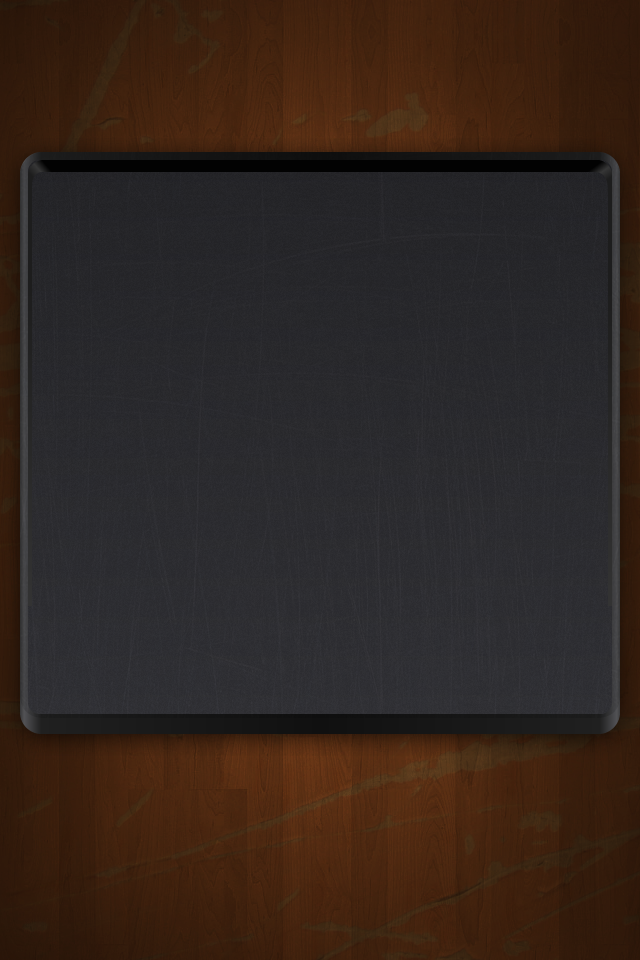
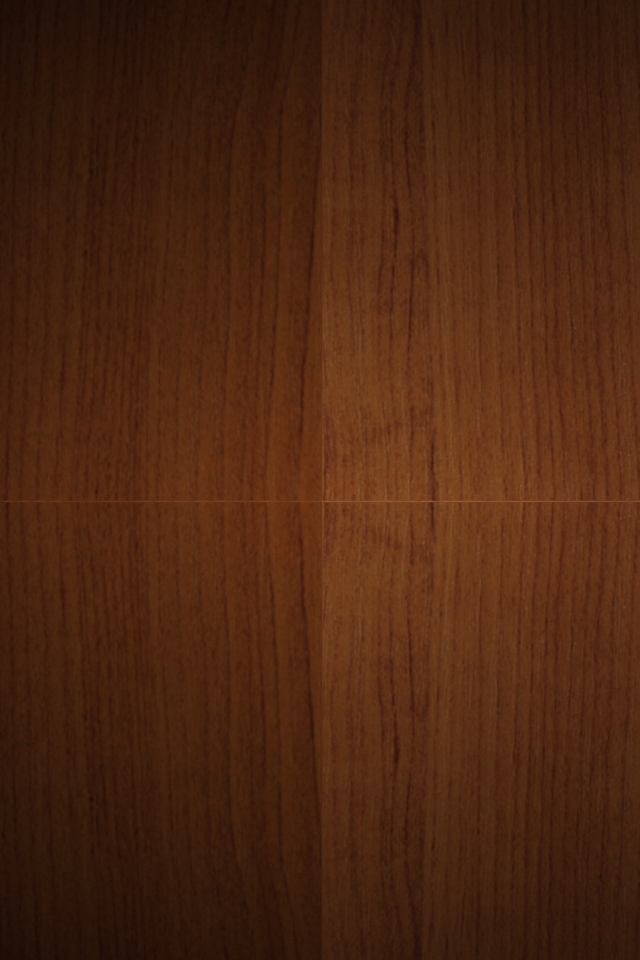
Using new design. Refactored SCSS. Minor refactoring in JS

diff --git a/app/stylesheets/app.scss b/app/stylesheets/app.scss
@@ -13,81 +13,58 @@ $experimental-support-for-microsoft: false;
 $experimental-support-for-khtml: false;
 
 body {
-  background: url("/img/bg.png") no-repeat;
   font-family: "Helvetica Neue", sans-serif;
   color: #FFF;
-  
+  background: image-url("bg.png") no-repeat;
+  width: 100%;
+  height: 100%;
+  @include background-size(100%, 100%);
   -webkit-tap-highlight-color: rgba(0,0,0,0);
   -webkit-text-size-adjust: none;
 }
 
-#gameview {
+.b-board {
   position: relative;
+  top: 128px;
+  left: 30px;
+  background: image-url("b-board_bg.png") no-repeat;
   width: 640px;
-  height: 960px;
-  
-  .b-board_fg {
-    position: absolute;
-    background: url("/img/fg.png") no-repeat;
-    z-index: 9999;
-  }
-  
-  .b-board_fg-1 {
-    left: 0;
-    top: 140px;
-    width: 640px;
-    height: 40px;
-    background-position: 0 -140px;
-  }
-  .b-board_fg-2 {
-    left: 20px;
-    top: 180px;
-    width: 40px;
-    height: 510px;
-    background-position: -20px -180px;
-  }
-  .b-board_fg-3 {
-    left: 580px;
-    top: 180px;
-    width: 40px;
-    height: 510px;
-    background-position: -580px -180px;
-  }
-  .b-board_fg-4 {
-    left: 0;
-    top: 690px;
-    width: 640px;
-    height: 60px;
-    background-position: 0 -690px;
-  }
-  
-  .b-board {
-    position: relative;
-    top: 128px;
-    left: 30px;
-    width: 580px;
-    height: 580px;
-    
-    .b-tile {
-      position: absolute;
-      margin: 1px;
-      text-align: center;
-      text-shadow: 0 -2px #000;
-      color: #DDD;
-      background: url("/img/tile.png") -30px -30px no-repeat;
-      width: 144px;
-      height: 160px;
-
-
-      p {
-        font-size: 3.5em;
-        line-height: 2.25em;
-        font-weight: 500;
-      }
-    }
-    .b-tile_empty {
-      visibility: hidden!important;
-    }
-  }
-  
+  height: 673px;
 }
+  .b-board__tiles {
+    position: absolute;
+    top: 22px;
+    left: 30px;
+    width: 100%;
+    height: 100%;
+  }
+  .b-board__fg {
+    position: absolute;
+    top: 0;
+    left: 0;
+    background: image-url("b-board__fg.png") no-repeat;
+    width: 100%;
+    height: 100%;
+    z-index: 9999;
+    pointer-events: none;
+  }
+
+.b-tile {
+  $image: "b-tile.png";
+  position: absolute;
+  margin: 1px;
+  text-align: center;
+  text-shadow: 0 -2px #000;
+  color: #DDD;
+  background: image-url($image) 0 0 no-repeat;
+  width: image-width($image);
+  height: image-height($image);
+}
+.b-tile_empty {
+  visibility: hidden;
+}
+  .b-tile__label {
+    font-size: 3.5em;
+    line-height: 2.25em;
+    font-weight: 500;
+  }
